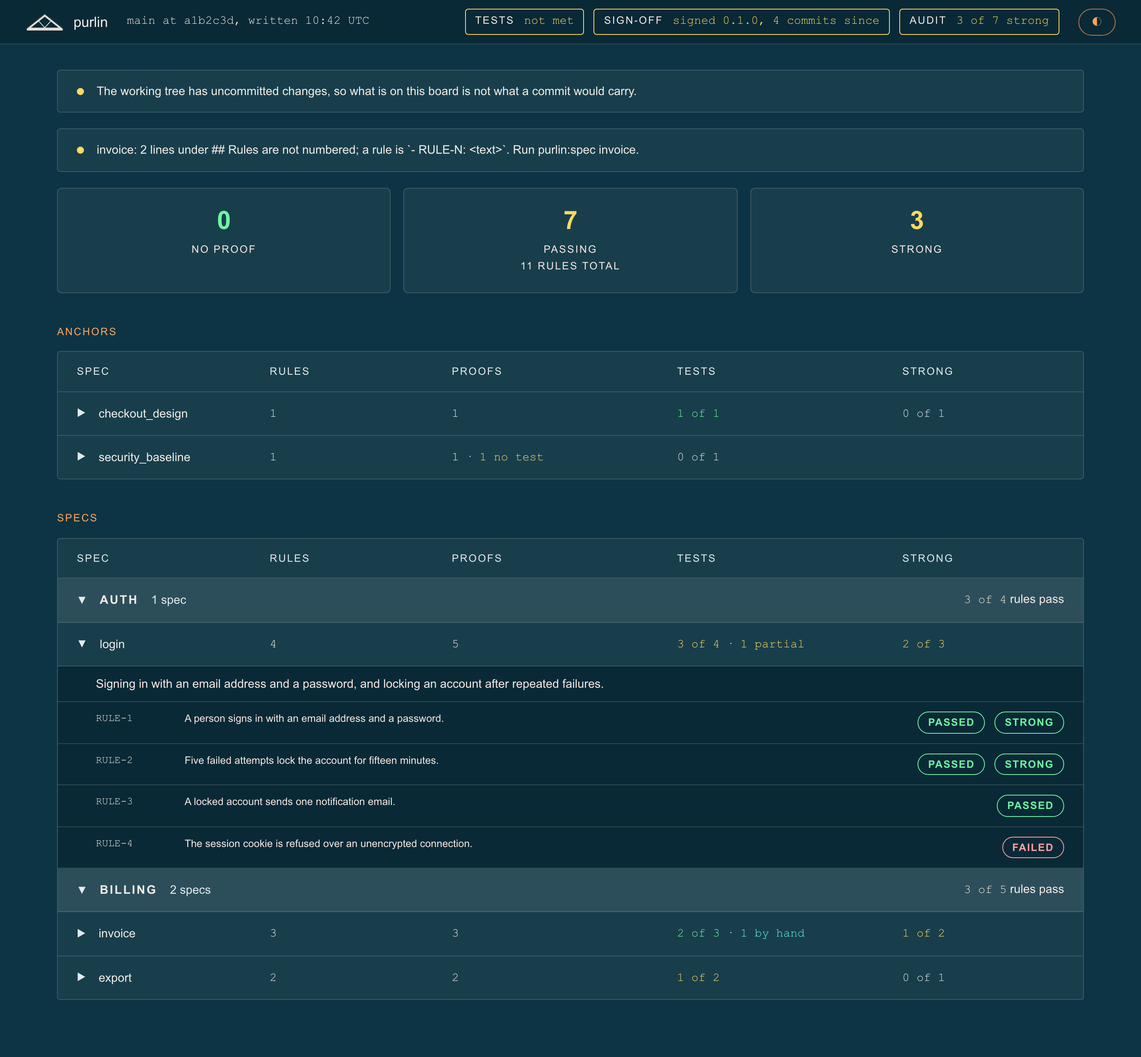
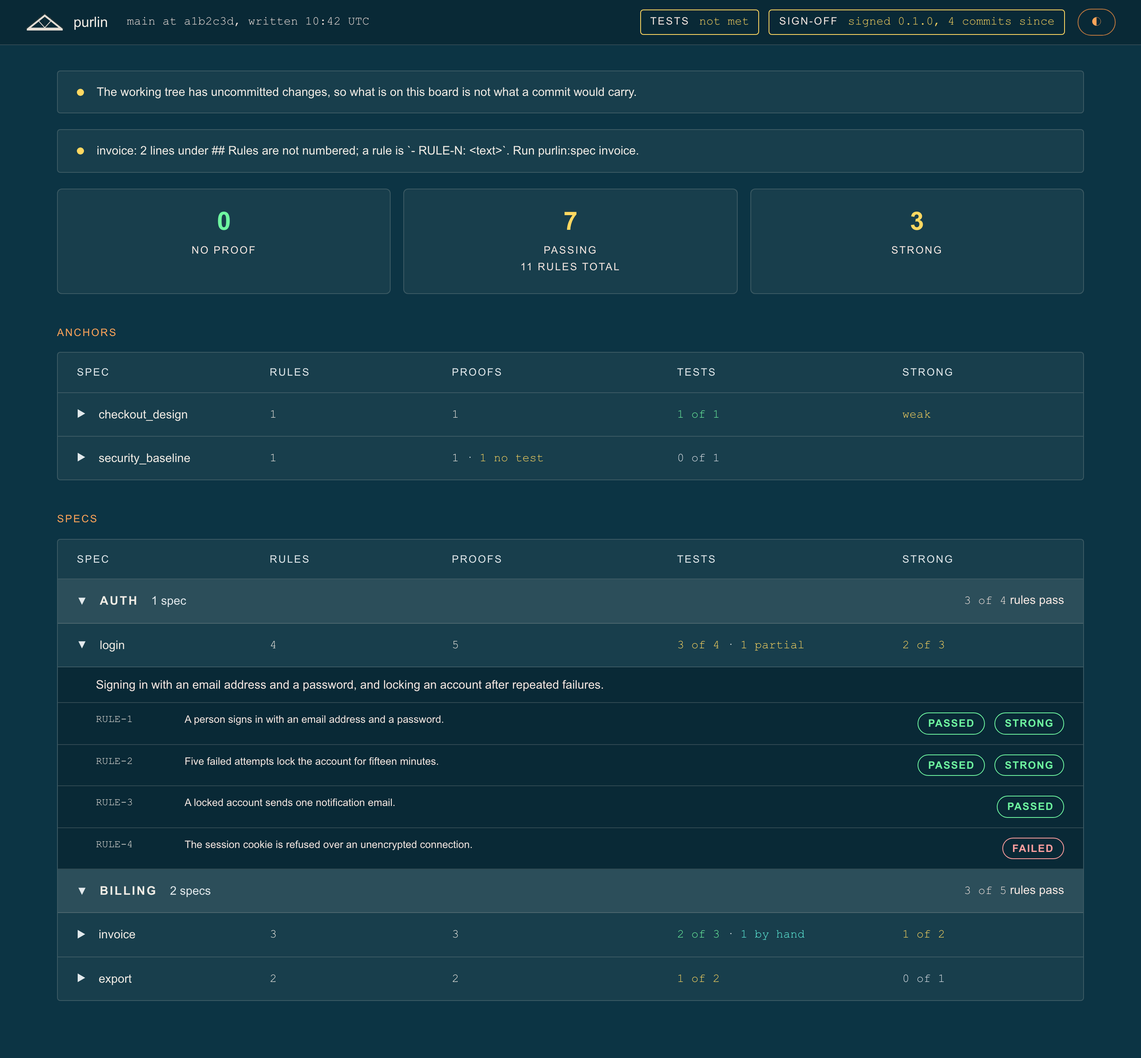
feat(summary): an audit that read an anchor alone lists what it found; the pages follow decision 125
The audit's last line takes its share from summary's one home, so it counts no
rule of an anchor. Where every rule read is an anchor's there is nothing to
take a share of: the line reads `The audit found 8 spot-checked.` and the
dashboard draws no Strong box.

The dashboard page says two boxes, the plain `not signed`, the button at the
top right, the Strong box's hover and an anchor's one-word cell; its two
screenshots are retaken. The status skill, the glossary, the evidence and
sign-off reference, the criteria and the running page say the share counts no
rule of an anchor. audit_run's header names no count of calls.

Changeset: scripts/mcp/purlin/summary.py, scripts/review/audit_run.py,
scripts/report/src/board.js and the rebuilt page; summary RULE-26 reworded and
PROOF-63 added; purlin_report RULE-8 reworded and PROOF-256 added; ai_audit
RULE-35 reworded and PROOF-159 added.

Claude-Session: https://claude.ai/code/session_019ZnevFpAcRMGNmDja38LB4

diff --git a/scripts/report/purlin-report.html b/scripts/report/purlin-report.html
@@ -171,9 +171,9 @@ function statStrip() {
   boxes.push(box(PASSING, passing, passing + byHand === total ? 'pass' : 'warn',
                  platformLines(project),
                  total + (total === 1 ? ' rule total' : ' rules total')));
-  if (audited()) {
+  var found = auditShare();
+  if (audited() && found.over) {
     var strong = (summary.audit || {}).strong || 0;
-    var found = auditShare();
     boxes.push(box(STRONG, strong,
                    found.strong === found.over ? 'pass' : 'warn',
                    auditCountLines(), null));

diff --git a/scripts/report/src/board.js b/scripts/report/src/board.js
@@ -31,9 +31,9 @@ function statStrip() {
   boxes.push(box(PASSING, passing, passing + byHand === total ? 'pass' : 'warn',
                  platformLines(project),
                  total + (total === 1 ? ' rule total' : ' rules total')));
-  if (audited()) {
+  var found = auditShare();
+  if (audited() && found.over) {
     var strong = (summary.audit || {}).strong || 0;
-    var found = auditShare();
     boxes.push(box(STRONG, strong,
                    found.strong === found.over ? 'pass' : 'warn',
                    auditCountLines(), null));

diff --git a/scripts/review/audit_run.py b/scripts/review/audit_run.py
@@ -5,7 +5,7 @@ audit reads (`ai_audit.is_read`, ai_audit RULE-1) it runs, in this order:
 
 1. the heuristic spot tests over each test tied to each rule's proofs
    (`plain_checks.check`), with no model;
-2. one model call per rule, four at once (`ai_audit.audit_all`), whose reply
+2. the model's request for each rule (`ai_audit.audit_all`), whose reply
    holds a planted bug for each proof that needs one, aimed past that proof's
    test, with the case the model says it breaks, and the model's reading,
    which becomes the explanation and sets no verdict;
@@ -644,15 +644,13 @@ def share_line(project_root, payload, selected):
     """The last line: the share of the rules that pass their tests the audit
     found strong, and each count as the status words it. The counts are
     `summary.audit_counts` over the project as it reads once the entries are
-    written, so the line and the status give the same numbers: a rule is
+    written, so the line and the status give the same numbers, the share counting no rule of an anchor: a rule is
     counted under the word its strong cell reads, and a rule whose strong
     cell reads `checked at sign-off` is in no count. `payload` is the one
     built before the audit, which says whether any rule passes."""
     if not counted_rules(payload, selected):
         return NO_RULE_PASSES
     now = payload_module.build_payload(project_root, generated_by='audit')
-    own = [rule for feature in now.get('features') or ()
-           if feature.get('name') in selected
-           for rule in feature.get('rules') or ()
-           if rule.get('feature') == feature.get('name')]
-    return summary_module.audit_line(summary_module.audit_counts(own))
+    return summary_module.features_audit_line(
+        [feature for feature in now.get('features') or ()
+         if feature.get('name') in selected])

diff --git a/scripts/mcp/purlin/summary.py b/scripts/mcp/purlin/summary.py
@@ -101,6 +101,9 @@ AUDIT_WORDS = (('strong', 'strong'), ('weak', 'weak'),
                ('spot_checked', 'spot-checked'),
                ('out_of_date', 'out of date'), ('not_audited', 'not audited'))
 AUDIT_LINE = 'The audit found %d of %d rules strong (%d%%): %s.'
+# The same line where no rule the audit read can be found strong, each being
+# an anchor's: there is nothing to take a share of, so it lists what was found.
+AUDIT_FOUND = 'The audit found %s.'
 # The sentence's third part, where a passed cell reads `checked at sign-off`.
 BY_HAND_ONE = '1 is checked at sign-off.'
 BY_HAND_MANY = '%d are checked at sign-off.'
@@ -257,9 +260,15 @@ def audit_share(counts, anchors=None):
 
 def audit_line(counts, anchors=None):
     """AUDIT_LINE: `audit_share(counts, anchors)`, the whole per cent rounded
-    down, then `audit_words(counts)`, which counts the anchors' rules too."""
+    down, then `audit_words(counts)`, which counts the anchors' rules too.
+    Where the share is over no rule, AUDIT_FOUND: each count that is not
+    zero, in AUDIT_WORDS' order."""
     strong, over = audit_share(counts, anchors)
-    return AUDIT_LINE % (strong, over, strong * 100 // over if over else 0,
+    if not over:
+        return AUDIT_FOUND % ', '.join(
+            '%d %s' % (counts[key], word) for key, word in AUDIT_WORDS
+            if (counts or {}).get(key))
+    return AUDIT_LINE % (strong, over, strong * 100 // over,
                          audit_words(counts))
 
 

diff --git a/dev/test_purlin_report.py b/dev/test_purlin_report.py
@@ -1993,6 +1993,26 @@ def test_the_strong_box_waits_on_a_weak_rule_that_is_not_an_anchors(
     assert found['Strong']['color'] == warn, found
 
 
+# purlin: purlin_report PROOF-256
+def test_no_strong_box_where_the_audit_read_an_anchor_alone(browser,
+                                                           tmp_path):
+    def anchors_alone(payload):
+        payload['features'] = [feature for feature in payload['features']
+                               if feature['is_anchor']]
+        payload['summary']['audit'] = {
+            'strong': 0, 'weak': 0, 'spot_checked': 1, 'out_of_date': 0,
+            'not_audited': 0}
+    page = open_sample(browser, tmp_path, 'team', anchors_alone)
+    labels = [box['label'] for box in page.evaluate(COUNT_BOXES)]
+    heads = texts(page, '[data-table="anchors"] .th > div')
+    cell = page.inner_text(
+        '.tr[data-feature="checkout_design"] [data-label="Strong"]').strip()
+    page.close()
+    assert 'Passing' in labels and 'Strong' not in labels, labels
+    assert heads[-1] == 'Strong', heads
+    assert cell == 'spot-checked', cell
+
+
 def stamp(page):
     """The top bar's line naming the checkout state, and its hover."""
     return [page.inner_text('.topbar .stamp').strip(),

diff --git a/dev/test_summary.py b/dev/test_summary.py
@@ -207,6 +207,17 @@ class TestTheSentence:
             '2 rules. 2 pass their tests. The audit found 1 of 1 rules '
             'strong (100%): 1 strong, 1 spot-checked.'), sentence
 
+    # purlin: summary PROOF-63
+    def test_an_audit_that_read_an_anchor_alone_lists_what_it_found(self):
+        features = [
+            feature([rule(strong='spot-checked', feature='security')] * 7
+                    + [rule(strong='weak', feature='security')],
+                    name='security', anchor=True),
+        ]
+        assert payload(features)['summary']['sentence'] == (
+            '8 rules. 8 pass their tests. The audit found 1 weak, '
+            '7 spot-checked.')
+
 
 def _nine_tested_rules_and_a_hand_check(audited=False):
     """A project of 10 rules on committed evidence: 9 pass their tests, and

diff --git a/dev/test_ai_audit.py b/dev/test_ai_audit.py
@@ -1042,6 +1042,15 @@ class TestTheVerdict:
             entry
         assert entry['breaks'] == {}, entry
 
+    # purlin: ai_audit PROOF-159
+    def test_an_audit_of_an_anchor_alone_ends_on_what_it_found(self, claude):
+        with passing_project() as made:
+            as_anchor(made)
+            code, printed = audit(made)
+        assert code == 0, printed
+        assert printed.splitlines()[-1] == (
+            'The audit found 2 spot-checked.'), printed
+
     # purlin: ai_audit PROOF-116
     def test_a_proof_tagged_for_another_system_gets_no_planted_bug(
             self, claude, monkeypatch):

diff --git a/docs/dashboard.md b/docs/dashboard.md
@@ -26,7 +26,7 @@ The page has two screens: the board, and one rule.
 
 ## The top bar
 
-The top bar holds the logo, the header line, three boxes and the theme button.
+The top bar holds the logo, the header line, two boxes and the theme button.
 
 **The header line** says which checkout you are reading and when its data was written:
 
@@ -41,29 +41,23 @@ full date and the UTC time: `2026-10-01 06:42 EDT (10:42 UTC)`. The data keeps t
 and the page converts it. On a detached `HEAD` the line reads
 `detached at a1b2c3d, written 06:42 EDT`.
 
-**The first two boxes** state the two facts:
+**The two boxes** state the two facts:
 
 - `Tests` reads `met` where every rule's tests pass on the committed evidence, and `not met`
   otherwise.
 - `Sign-off` reads `signed 0.1.0 at a1b2c3d`, `signed 0.1.0, 4 commits since` or `not signed`.
+  It is green at the signed commit and amber once commits have followed it. `not signed` is
+  plain, in no state colour.
 
-**The third box**, `Audit`, is information. It is no third fact, and nothing waits on it:
+Where the two boxes do not fit beside the header line, both move to the line below the logo.
 
-- It reads `not audited` where no audit has read a rule. That is no warning: it is drawn in the
-  same tone as `not signed`.
-- Once an audit has read a rule it reads the share the summary gives, as `34 of 40 strong`. It is
-  green while no rule is weak and amber once one is.
-- Hover over it for the counts, one to a line, as `34 strong`, `4 weak`, `2 spot-checked`, then
-  `Last audit: 2026-09-13`.
-
-Under 600 pixels the three boxes stack.
-
-**The theme button** shows the glyph of the theme it turns to: `◐` in the dark theme, `◑` in the
-light. Its hover names that theme, `Light theme` or `Dark theme`.
+**The theme button** is always at the top right. It shows the glyph of the theme it turns to:
+`◐` in the dark theme, `◑` in the light. Its hover names that theme, `Light theme` or
+`Dark theme`.
 
 ## Board
 
-![The board: the header line naming the branch and commit, the Tests, Sign-off and Audit boxes, the count boxes, the Anchors section, and the specs under their categories](images/dashboard-board.png)
+![The board: the header line naming the branch and commit, the Tests and Sign-off boxes, the count boxes, the Anchors section, and the specs under their categories](images/dashboard-board.png)
 
 **Notices.** Notices sit above the count boxes, one per line. There is one when the working tree
 has uncommitted changes:
@@ -86,10 +80,13 @@ states: 3 files its scope names are not written yet: facts.py, project.py, wordi
 - `Passing` counts the rules that pass their tests. The project's total is beneath it, as
   `11 RULES TOTAL`. A rule checked at sign-off is not counted.
 - `Strong` counts the rules the audit found strong, of the rules that pass their tests and have
-  a tested proof. It is there once any rule has an audit entry.
+  a tested proof. It is there once the audit has read a rule that is not an anchor's. Hover over
+  it for the audit's counts, one to a line, as `34 strong`, `4 weak`, `2 spot-checked`, then
+  `Last audit: 2026-09-13`.
 
 A box is green once its count is complete, and amber until then. `No proof` is complete at zero.
-`Passing` is complete once every rule passes or is checked at sign-off.
+`Passing` is complete once every rule passes or is checked at sign-off. `Strong` is complete once
+every rule the audit could read that is not an anchor's is strong.
 
 **Columns.** `Spec`, `Rules` and `Tests` are always there. `Proofs` sits between `Rules` and
 `Tests` wherever the project writes at least one proof line. `Strong` comes last once any rule has
@@ -101,7 +98,7 @@ an audit entry. A column the project does not reach is absent, not empty.
 | `Rules` | how many rules the spec has, as `16` | |
 | `Proofs` | `5 · 1 no test`: how many proof lines the spec holds, then how many no test runs. A `@manual` proof is not counted as one | which proofs have no test |
 | `Tests` | `3 of 4 · 1 partial`: how many rules passed everywhere they ran, then `by hand`, `partial` and `failing`. `2 of 3 · 1 by hand` holds one rule checked at sign-off | one line per operating system a current run covered, with its newest run's source, age and results |
-| `Strong` | `2 of 4`, as `<strong> of <n>`: how many rules the audit found strong, of the rules that pass their tests and have a tested proof | where the newest audit came from and how old it is |
+| `Strong` | `2 of 4`, as `<strong> of <n>`: how many rules the audit found strong, of the rules that pass their tests and have a tested proof. An anchor reads one word, `weak`, `out of date` or `spot-checked`, or nothing | where the newest audit came from and how old it is; an anchor's opens on `No bug is planted for an anchor's rule.` |
 
 Every count names what it counts. The first part is always drawn. A later part is drawn only
 above zero, so a spec with nothing partial and nothing failing reads `3 of 3`. Each cell reads

diff --git a/specs/dashboard/purlin_report.md b/specs/dashboard/purlin_report.md
@@ -11,7 +11,7 @@
 > Scope: scripts/report/src/page.html, scripts/report/src/styles.css, scripts/report/src/theme.js, scripts/report/src/board.js, scripts/report/src/rule.js, scripts/report/src/app.js, scripts/report/purlin-report.html, scripts/mcp/purlin/report_data.py, dev/build_report.py
 > Stack: html/css/javascript, no framework and no build-time dependency, design tokens inlined by a python assembler
 > Highest-Rule: 80
-> Highest-Proof: 255
+> Highest-Proof: 256
 
 ## Rules
 
@@ -19,7 +19,7 @@
 - RULE-3: The page keeps to the design system on its own: every colour it uses is written inside the one inlined token block, it carries no shadow and no gradient, and its only affordances are the glyphs `▶`, `▼`, `▲`, `→`, `◐` and `◑`, with no icon set and no emoji
 - RULE-5: The page asks nothing of anything outside itself: no stylesheet link, no style import, no fetch, and no source or link address on another host
 - RULE-7: The top bar holds two boxes, one for each fact, as the payload gives them: `Tests`, reading `met` where every rule's tests pass on the committed evidence and `not met` otherwise, and `Sign-off`, reading `signed <version> at <commit>`, `signed <version>, <n> commits since` or `not signed`. The sign-off's box and its words are in the pass tone at the signed commit, the warn tone once commits have followed it, and the page's secondary text colour, no tone, where nothing is signed
-- RULE-8: The boxes count the project's rules from the payload: `No proof`, wherever the project writes at least one proof line, counting the rules of the kind `no_proof`; `Passing`, counting the rules whose tests pass, with the project's rule count beneath it as `<n> RULES TOTAL`, in the pass tone once every rule passes or reads `checked at sign-off`; and `Strong`, wherever a rule has an audit entry, counting the rules it found strong, in the pass tone once every rule the audit could read that is not an anchor's is strong, its hover the audit's counts, one to a line, then `Last audit: <date>`. A count is in the pass tone once it is complete, `No proof` at zero, and the warn tone until then
+- RULE-8: The boxes count the project's rules from the payload: `No proof`, wherever the project writes at least one proof line, counting the rules of the kind `no_proof`; `Passing`, counting the rules whose tests pass, with the project's rule count beneath it as `<n> RULES TOTAL`, in the pass tone once every rule passes or reads `checked at sign-off`; and `Strong`, wherever a rule has an audit entry, counting the rules it found strong, drawn only where the audit could read a rule that is not an anchor's, in the pass tone once every such rule is strong, its hover the audit's counts, one to a line, then `Last audit: <date>`. A count is in the pass tone once it is complete, `No proof` at zero, and the warn tone until then
 - RULE-9: A column exists only where the project reaches it: `Spec`, `Rules` and `Tests` always, `Proofs` wherever the project writes at least one proof line, and `Strong` last wherever a rule has an audit entry. Each count cell names what it counts beside the number: `Proofs` the proof total, then `<k> no test`, a `@manual` proof counting as no gap; `Tests` `<passed> of <rules>`, then `<k> by hand`, `<k> partial` and `<k> failing`; a feature's `Strong` `<s> of <n>`, `<n>` the spec's rules that pass their tests and have a tested proof
 - RULE-10: A spec row opens to its `> Description:` and the rules it owns and closes again on the next click, and a rule's screen carries one link, `Back to the board`, which returns to the board
 - RULE-12: Both themes ship in the page and it opens dark; the theme button, `◐` named `Light theme` in the dark theme and `◑` named `Dark theme` in the light, swaps the ground, the ink and the mark to the other theme, and the theme chosen is the one the page opens in after a reload
@@ -135,3 +135,4 @@
 - PROOF-251 (RULE-80): Open the board with the team sample after the code changed since the audit entry of checkout_design's rule was written; its `Strong` cell reads `out of date`
 - PROOF-252 (RULE-80): Open the board with the team sample after checkout_design's rule, passing its tests, is left with no audit entry; the headings end with `Strong`, and the `Strong` cells of checkout_design and of security_baseline, whose one rule has no test, are empty
 - PROOF-253 (RULE-80): Open the board with the team sample; the hover of checkout_design's `Strong` cell reads two lines, `No bug is planted for an anchor's rule.` and then `audit · local · <age>`, and the hover of receipt's `Strong` cell does not hold that sentence
+- PROOF-256 (RULE-8): Open the board with the team sample cut down to its anchors, checkout_design's one rule found spot-checked; the boxes hold `Passing` and no `Strong`, the `Anchors` table's headings end with `Strong`, and checkout_design's `Strong` cell reads `spot-checked`

diff --git a/specs/mcp/summary.md b/specs/mcp/summary.md
@@ -11,13 +11,13 @@
 > Scope: scripts/mcp/purlin/summary.py, scripts/mcp/purlin/facts.py, scripts/mcp/purlin/status.py
 > Stack: python/stdlib
 > Highest-Rule: 26
-> Highest-Proof: 62
+> Highest-Proof: 63
 
 ## Rules
 
 - RULE-20: The status opens on three lines: `Purlin status: <project>, plugin <version>`; `Tests: met` where no line of `Left to do` is of a blocking kind, else `Tests: not met`; and `Sign-off: ` followed by, for the newest version whose sign-off counts, found by its `signed/*` tag on HEAD or an ancestor of it or by its sign-off files where this checkout holds no such tag, `signed <version> at <sha7>` where every commit since changes only `.purlin/`, else `signed <version>, <n> commits since` (`1 commit since` for one), or `not signed` where there is none
 - RULE-22: The sentence reads `<N> rules. <p> pass their tests.`, `1 rule.` and `1 passes its tests.` for a count of one, then ` <h> are checked at sign-off.`, `1 is checked at sign-off.` for one, where a passed cell reads `checked at sign-off`, counting each rule once under the spec that owns it; where a rule that passes has an audit entry it adds ` The audit found <s> of <n> rules strong (<p>%): <s> strong`, then `, <n> weak`, `, <n> spot-checked`, `, <n> out of date` and `, <n> not audited`, each only where not zero
-- RULE-26: The share `<s> of <n> rules strong (<p>%)` counts no rule of an anchor, since no bug is planted for an anchor's rule and it is never found strong; the counts after the colon count an anchor's rules with every other
+- RULE-26: The share `<s> of <n> rules strong (<p>%)` counts no rule of an anchor, since no bug is planted for an anchor's rule and it is never found strong; the counts after the colon count an anchor's rules with every other. Where every rule the audit read is an anchor's, the sentence ends `The audit found <counts>.`, each count that is not zero and no share
 - RULE-23: While work is left, the sentence is followed by `Left to do:` and one line per kind of work any rule is counted under, indented two spaces, reading `<count> <words>: <command>`, singular for a count of one, in this order whatever order the rules come in: `specs to repair`, `purlin:spec`, counting specs that write a number twice or hold a line left from a merge conflict; `rules to write a proof for`, `purlin:spec`; `test comments to correct`, `purlin:build`, counting comments that name something no spec has, a rule that has proofs, or a proof whose wording changed after the test was last changed; `rules to fix`, `purlin:build`; `rules to write a test for`, `purlin:build`; `rules to test`, `purlin:test`; `slow proofs to run`, `purlin:test --all`, counting proofs; `rules to test on <systems>`, `run purlin:test on <systems>`, the same systems named in both places; `features whose results are not committed`, `purlin:test --commit`; and `rules to strengthen`, `purlin:build`. Where nothing is left there is no `Left to do:` line
 - RULE-8: Each rule is counted under at most one kind, the first that applies in this order: a passed cell reading `failed` or `partial` (`to fix`); `no test` (`to write a test for`); `out of date`, or `not run` where this machine's system is among those it waits for or it names none (`to test`), unless slow proofs are all it waits for, which RULE-24 counts; `not run` for other systems only (`to test on`); no proof line, its tests passing (`to write a proof for`); a strong cell reading `weak` (`to strengthen`); a hand check and a rule no audit has read add no kind
 - RULE-19: The kinds `no_proof` and `to_strengthen` are not blocking and every other kind is, so a rule with no proof line, or one the audit found weak, still lets the tests read `met`
@@ -52,3 +52,4 @@
 - PROOF-56 (RULE-24): On macOS, three rules of one `@slow` proof each read `not run`, the third's proof also tagged `@env(windows)`; the ending reads `  2 slow proofs to run: purlin:test --all`, then `  1 rule to test on Windows: run purlin:test on Windows`
 - PROOF-44 (RULE-18): Two rules that pass their tests on committed evidence, with no `signed/*` tag, end on `Every rule passes its tests on the committed evidence. To sign it: purlin:sign`
 - PROOF-59 (RULE-25): Over those 10 rules on committed evidence, the status's second line reads `Tests: met`, it holds no `Left to do:` line, and its last line reads `Every rule passes its tests on the committed evidence. To sign it: purlin:sign`
+- PROOF-63 (RULE-26): An anchor of 8 rules, all passing their tests, 7 found spot-checked and 1 weak, in a project with no other rule, reads `8 rules. 8 pass their tests. The audit found 1 weak, 7 spot-checked.`

diff --git a/specs/review/ai_audit.md b/specs/review/ai_audit.md
@@ -15,7 +15,7 @@
 > Scope: scripts/review/audit_run.py, scripts/review/ai_audit.py, scripts/review/marked_tests.py
 > Stack: python/stdlib (json, hashlib, subprocess, shutil, concurrent.futures)
 > Highest-Rule: 64
-> Highest-Proof: 158
+> Highest-Proof: 159
 
 ## Rules
 
@@ -27,7 +27,7 @@
 - RULE-11: The test source is read out of JavaScript and TypeScript by balancing the brackets of the test's call, with strings, comments and regex literals stepped over, so a nested options object, an apostrophe in a title, a regex literal, a comment or a division never cuts a body short or drops a test
 - RULE-12: Reading a rule, asking the model and printing the result write no file anywhere under `.purlin/`
 - RULE-33: A rule's verdict comes from the spot tests and the planted bugs alone: `weak` when a spot test fires on one of its tests or a planted bug survives; else `strong` when a planted bug was caught; else `spot-checked`; and the entry records under `no_bug` one sentence for each proof no bug was caught for
-- RULE-35: The audit's last line is `The audit found <s> of <n> rules strong (<p>%): ` and the counts as the status words them, with the numbers the status gives: each rule that passes its tests is counted under the word its strong cell reads, and a rule whose strong cell reads `checked at sign-off` is in no count
+- RULE-35: The audit's last line is `The audit found <s> of <n> rules strong (<p>%): ` and the counts as the status words them, with the numbers the status gives: each rule that passes its tests is counted under the word its strong cell reads, and a rule whose strong cell reads `checked at sign-off` is in no count. The share counts no rule of an anchor, and where every rule read is an anchor's the line is `The audit found <counts>.`
 - RULE-36: A proof whose test and whose feature's code are unchanged since its last planted bug keeps that bug's result, and no bug is planted for it again
 - RULE-37: No bug is planted, and the model is asked for none, for a proof of an anchor's rule or a proof tagged `@env` for a system this machine is not, and the entry's `no_bug` says which
 - RULE-38: The model's answer is written into the rule's audit entry as `explanation`, one sentence per line starting `- `, beside the `findings` it explains, and the lines under `notes:` are its notes; the answer sets no verdict
@@ -146,3 +146,4 @@
 - PROOF-156 (RULE-63): The test of `PROOF-5` is changed to expect `24`, so it fails, and `RULE-3` is named with `--settle`; the run exits 1 and prints `sample_intake RULE-3 fails: tests/test_intake.py::test_age_is_whole_hours. Run purlin:build sample_intake.`, the entry of `RULE-3` is as it was, and `claude` is started `0` times
 - PROOF-157 (RULE-64): The test of `PROOF-5` is changed to expect `25`, and `sample_intake` is audited without `--settle`; `claude` is asked a bug for `PROOF-5`, the entry of `PROOF-5` holds the model's change `return int(seconds // 1800)` and reads `caught`, and the audit prints no line under `sample_intake RULE-3`
 - PROOF-158 (RULE-56): The kept bug for `PROOF-5` and the model's new bug both survive; the audit prints `sample_intake RULE-3   spot-checked`, then `  PROOF-5: the bug at src/intake.py:17 did not break what the proof says. A new bug was planted.`, then `  The spot tests found nothing. No bug was caught for PROOF-5: two planted bugs left the proof's check passing.`
+- PROOF-159 (RULE-35): `login` is an anchor whose two rules pass their tests and no spot test fires; the audit's last line reads `The audit found 2 spot-checked.`

diff --git a/references/evidence_and_signoff.md b/references/evidence_and_signoff.md
@@ -62,9 +62,11 @@ cell reads `passed`. Where a rule's passed cell reads `checked at sign-off`,
 ` 1 is checked at sign-off.` follows, or ` <h> are checked at sign-off.` for more than one:
 `10 rules. 9 pass their tests. 1 is checked at sign-off.` Where the audit has read a
 rule that passes, ` The audit found <s> of <a> rules strong (<n>%): <s> strong` follows, `a`
-counting the rules that pass their tests and have a tested proof, then
+counting the rules that pass their tests, have a tested proof and are not an anchor's, then
 `, <n> weak`, `, <n> spot-checked`, `, <n> out of date` and `, <n> not audited`, each only where
-it is not zero. A rule is counted once, under the spec that owns it.
+it is not zero. Those counts take in an anchor's rules. Where every rule the audit read is an
+anchor's, the part is ` The audit found <counts>.`, as `The audit found 8 spot-checked.` A rule is
+counted once, under the spec that owns it.
 
 **`Left to do`** lists only work. It gives each rule at most one kind, the first that applies, in
 this order. A line carries a count and a command and names no rule; a run names each rule where it
